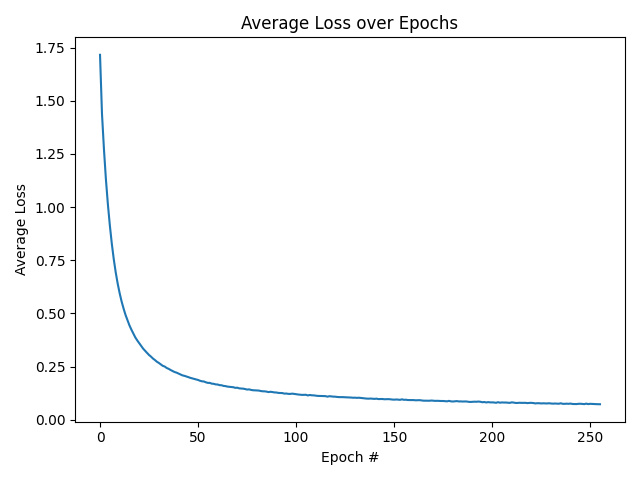
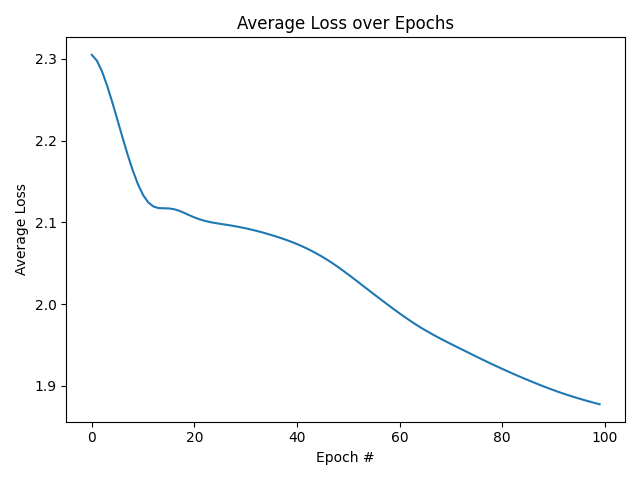
Updated nn.py to do LODO validation, and some other metrics.

diff --git a/src/experiments/nn.py b/src/experiments/nn.py
@@ -9,35 +9,32 @@ from data_primer import standardizeDataDims
 
 
 # Hyperparameters
-learningRate = 0.1 # 0.01
+learningRate = 0.1
 momentum = 0.9
-epochs = 512 # 256
-batchSize = 64 * 64 # 64
-nfold = 10000
+weightDecay = 0.001
+dampening = 0.001
+epochs = 2048
 numClasses = 10
 numFeatures = 18
 latencyTestBatchSize = 50
+H0 = 32
+H1 = 32
 
 
 
 class Network(torch.nn.Module):
-  def __init__(self, D_in, H0, H1, H2, D_out):
+  def __init__(self, D_in, H0, H1, D_out):
     super(Network, self).__init__()
+    self.relu = torch.nn.ReLU()
     self.l1 = torch.nn.Linear(D_in, H0)
-    self.relu = torch.nn.ReLU()
     self.l2 = torch.nn.Linear(H0, H1)
-    self.relu = torch.nn.ReLU()
-    self.l3 = torch.nn.Linear(H1, H2)
-    self.relu = torch.nn.ReLU()
-    self.l4 = torch.nn.Linear(H2, D_out)
+    self.l3 = torch.nn.Linear(H1, D_out)
   def forward(self, x):
     x = self.l1(x)
     x = self.relu(x)
     x = self.l2(x)
     x = self.relu(x)
     x = self.l3(x)
-    x = self.relu(x)
-    x = self.l4(x)
     return torch.nn.functional.log_softmax(x, dim=1)
 
 
@@ -76,7 +73,7 @@ def prepareData(XDrivers, YDrivers):
       YiC += np.where((lBound < Yi) & (Yi <= uBound), j, 0)
     YDrivers[i] = YiC
 
-  # Combine into a large N x D matrix
+  # Combine into combined matrix.
   X = np.zeros((N, D))
   Y = np.zeros((N))
   startIdx = 0
@@ -88,65 +85,74 @@ def prepareData(XDrivers, YDrivers):
     startIdx = endIdx
 
   # Return data
-  return X, Y
+  return XDrivers, X, YDrivers, Y
 
 
 
-def run(device, X, Y):
-  # Shuffle X and Y data to diversify gradient descent between drivers
-  # p = np.random.permutation(X.shape[0])
-  # X = X[p]
-  # Y = Y[p]
+def getLODOIterData(XDrivers, YDrivers, LODOIdx):
+  numDrivers = len(XDrivers)
 
-  # K-Fold validation variables
+  # Get testing data from LODO
+  XTest = XDrivers[LODOIdx]
+  YTest = YDrivers[LODOIdx]
+  D = XTest.shape[1]
+
+  # Get training data for everyone except the driver we are leaving out
+  NTrain = 0
+  for i in range(numDrivers):
+    if (i != LODOIdx):
+      NTrain += XDrivers[i].shape[0]
+  XTrain = np.zeros((NTrain, D))
+  YTrain = np.zeros((NTrain,))
+  startIdx = 0
+  endIdx = 0
+  for i in range(numDrivers):
+    if (i != LODOIdx):
+      endIdx = startIdx + XDrivers[i].shape[0]
+      XTrain[startIdx:endIdx] = XDrivers[i]
+      YTrain[startIdx:endIdx] = YDrivers[i]
+      startIdx = endIdx
+
+  # Return the split data
+  return XTrain, YTrain, XTest, YTest
+
+
+
+def run(device, XDrivers, YDrivers):
+  numDrivers = len(XDrivers)
+
+  # LODO validation variables
   numCorrect = 0
   numSamples = 0
   PRMat = np.zeros((numClasses, numClasses))
 
   # K-Fold iterations
-  avgLossMat = np.zeros((nfold, epochs))
-  kItr = 0
-  kf = KFold(n_splits=nfold)
-  for trainIdx, testIdx in kf.split(X):
-    # Get data for K-iteration
-    XTrain = X[trainIdx]
-    YTrain = Y[trainIdx]
-    XTest = X[testIdx]
-    YTest = Y[testIdx]
+  avgLossMat = np.zeros((numDrivers, epochs))
+  for i in range(numDrivers):
+    XTrain, YTrain, XTest, YTest = getLODOIterData(XDrivers, YDrivers, i)
 
     # Create new neural network and send to device
-    net = Network(X.shape[1], 128, 256, 128, numClasses)
+    net = Network(XTrain.shape[1], H0, H1, numClasses)
     net = net.to(device)
-    optimizer = torch.optim.SGD(net.parameters(), lr=learningRate, momentum=momentum)
+    optimizer = torch.optim.SGD(net.parameters(), lr=learningRate, momentum=momentum, dampening=dampening, weight_decay=weightDecay)
     lossFunction = torch.nn.CrossEntropyLoss()
 
     # Send testing data to device
     XTrain = torch.from_numpy(XTrain).float().to(device)
     YTrain = torch.from_numpy(YTrain).long().to(device)
 
-    # Run training, suffle data after every epoch
-    for i in range(epochs):
-      p = np.random.permutation(XTrain.shape[0])
-      XTrain = XTrain[p]
-      YTrain = YTrain[p]
-      numLoss = 0
-      lossSum = 0
-      # Run batches for epoch
-      for j in range(0, XTrain.shape[0], batchSize):
-        XMiniBatch = torch.autograd.Variable(XTrain[j:j + batchSize])
-        YMiniBatch = torch.autograd.Variable(YTrain[j:j + batchSize])
-        optimizer.zero_grad()
-        netOut = net(XMiniBatch)
-        loss = lossFunction(netOut, YMiniBatch)
-        loss.backward()
-        optimizer.step()
-        lossSum += loss.item()
-        numLoss += 1
-      # Store to our average loss matrix
-      avgLossMat[kItr][i] = lossSum / numLoss
-      # Print average loss every few iterations
-      if i % 16 == 0:
-        print("Average loss:", avgLossMat[kItr][i])
+    # Run training
+    for j in range(epochs):
+      XTrainBatch = torch.autograd.Variable(XTrain)
+      YTrainBatch = torch.autograd.Variable(YTrain)
+      optimizer.zero_grad()
+      netOut = net(XTrainBatch)
+      loss = lossFunction(netOut, YTrainBatch)
+      loss.backward()
+      optimizer.step()
+      avgLossMat[i][j] = loss.item()
+      if not j % 32:
+        print("Epoch (", j+1, "/", epochs, ") - Avg Loss:", avgLossMat[i][j])
 
     # Run testing
     XTest = torch.from_numpy(XTest).float().to(device)
@@ -159,24 +165,23 @@ def run(device, X, Y):
     numSamples += netPreds.size(0)
 
     # Fill our precision/recall matrix
-    for i in range(netPreds.shape[0]):
-      predicted = netPreds[i].item()
-      actual = YTestBatch[i].item()
+    for j in range(netPreds.shape[0]):
+      predicted = netPreds[j].item()
+      actual = YTestBatch[j].item()
       PRMat[predicted][actual] += 1
     PRMat = PRMat.astype(int)
 
-    # Print current accuracy as of this k-iter, update k-iter
-    print("Current accuracy:", numCorrect.item() / numSamples)
-    kItr += 1
+    # Print current accuracy after one LODO iteration
+    print("LODO Itr Complete - Current accuracy:", numCorrect.item() / numSamples)
 
-  # After all k-fold validation do data analysis
+  # After all LODO iterations do data analysis
   valAcc = numCorrect.item() / numSamples
   avgLoss = avgLossMat.mean(axis=0)
   print("Final accuracy:", valAcc)
 
   # Compute average precision and recall
-  prColSum = PRMat.sum(axis=0)
-  prRowSum = PRMat.sum(axis=1)
+  prColSum = PRMat.sum(axis=0) + 1
+  prRowSum = PRMat.sum(axis=1) + 1
   precisSum = 0.0
   recallSum = 0.0
   for i in range(numClasses):
@@ -209,46 +214,32 @@ def run(device, X, Y):
 
 
 
-def featureImportance(device, X, XLabels, Y):
-  # Shuffle X and Y data to diversify gradient descent between drivers
-  p = np.random.permutation(X.shape[0])
-  X = X[p]
-  Y = Y[p]
+def featureImportance(device, XDrivers, XLabels, YDrivers):
+  numDrivers = len(XDrivers)
 
-  # K-Fold iterations
-  kf = KFold(n_splits=nfold)
-  for trainIdx, testIdx in kf.split(X):
-    # Get data for K-iteration
-    XTrain = X[trainIdx]
-    YTrain = Y[trainIdx]
-    XTest = X[testIdx]
-    YTest = Y[testIdx]
+  for i in range(numDrivers):
+    XTrain, YTrain, XTest, YTest = getLODOIterData(XDrivers, YDrivers, i)
 
     # Create new neural network and send to device
-    net = Network(X.shape[1], 128, 256, 128, numClasses)
+    net = Network(XTrain.shape[1], H0, H1, numClasses)
     net = net.to(device)
-    optimizer = torch.optim.SGD(net.parameters(), lr=learningRate, momentum=momentum)
+    optimizer = torch.optim.SGD(net.parameters(), lr=learningRate, momentum=momentum, dampening=dampening, weight_decay=weightDecay)
     lossFunction = torch.nn.CrossEntropyLoss()
 
     # Send testing data to device
     XTrain = torch.from_numpy(XTrain).float().to(device)
     YTrain = torch.from_numpy(YTrain).long().to(device)
 
-    # Run training, suffle data after every epoch
-    for i in range(epochs):
-      p = np.random.permutation(XTrain.shape[0])
-      XTrain = XTrain[p]
-      YTrain = YTrain[p]
-      # Run batches for epoch
-      for j in range(0, XTrain.shape[0], batchSize):
-        XMiniBatch = torch.autograd.Variable(XTrain[j:j + batchSize])
-        YMiniBatch = torch.autograd.Variable(YTrain[j:j + batchSize])
-        optimizer.zero_grad()
-        netOut = net(XMiniBatch)
-        loss = lossFunction(netOut, YMiniBatch)
-        loss.backward()
-        optimizer.step()
-      if i % 16 == 0:
+    # Run training
+    for j in range(epochs):
+      XTrainBatch = torch.autograd.Variable(XTrain)
+      YTrainBatch = torch.autograd.Variable(YTrain)
+      optimizer.zero_grad()
+      netOut = net(XTrainBatch)
+      loss = lossFunction(netOut, YTrainBatch)
+      loss.backward()
+      optimizer.step()
+      if not j % 32:
         print("In featureImportance() still training...")
 
     # Run testing with no randomization.
@@ -344,9 +335,9 @@ def measureLatency(device, X, Y):
   YBatch = torch.autograd.Variable(Y)
 
   # Create new neural network and send to device
-  net = Network(X.shape[1], 128, 256, 128, numClasses)
+  net = Network(X.shape[1], H0, H1, numClasses)
   net = net.to(device)
-  optimizer = torch.optim.SGD(net.parameters(), lr=learningRate, momentum=momentum)
+  optimizer = torch.optim.SGD(net.parameters(), lr=learningRate, momentum=momentum, dampening=dampening, weight_decay=weightDecay)
   lossFunction = torch.nn.CrossEntropyLoss()
 
   # Time the model average across a bunch of iterations
@@ -365,17 +356,16 @@ def measureLatency(device, X, Y):
 
 
 def main():
-  np.random.seed(545)
   if torch.cuda.is_available():
     device = torch.device('cuda')
   else:
     device = torch.device('cpu')
   _, XDrivers, XLabels, _, YDrivers = standardizeDataDims()
-  X, Y = prepareData(XDrivers, YDrivers)
+  XDrivers, X, YDrivers, Y = prepareData(XDrivers, YDrivers)
   datasetDistribution(Y)
-  run(device, X, Y)
-  # featureImportance(device, X, XLabels, Y)
-  # measureLatency(device, X, Y)
+  run(device, XDrivers, YDrivers)
+  featureImportance(device, XDrivers, XLabels, YDrivers)
+  measureLatency(device, X, Y)
   return
 
 
